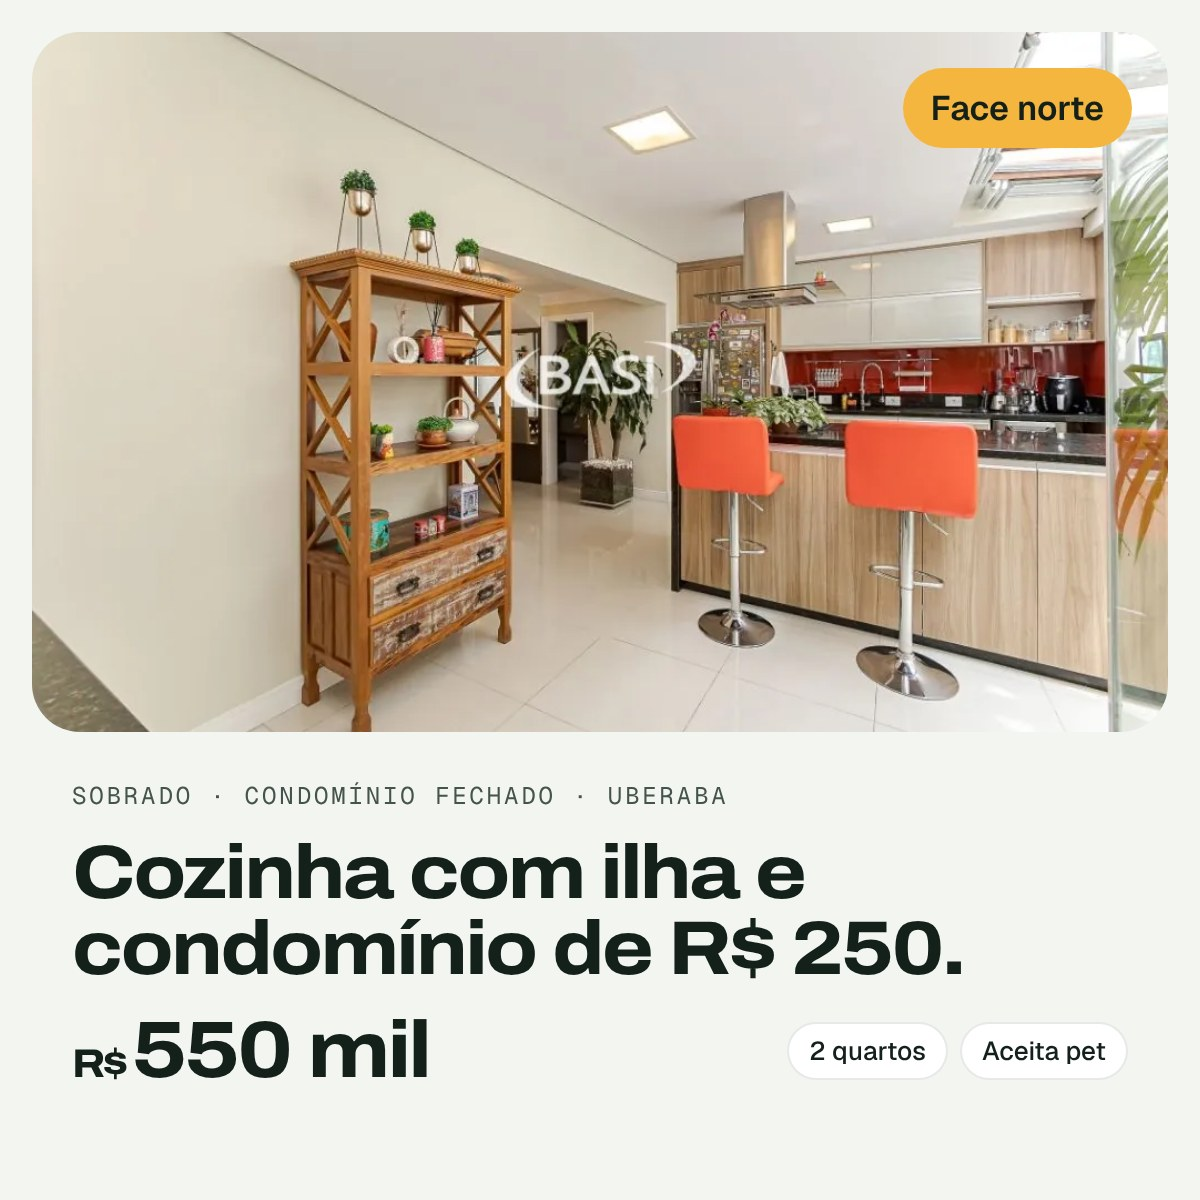
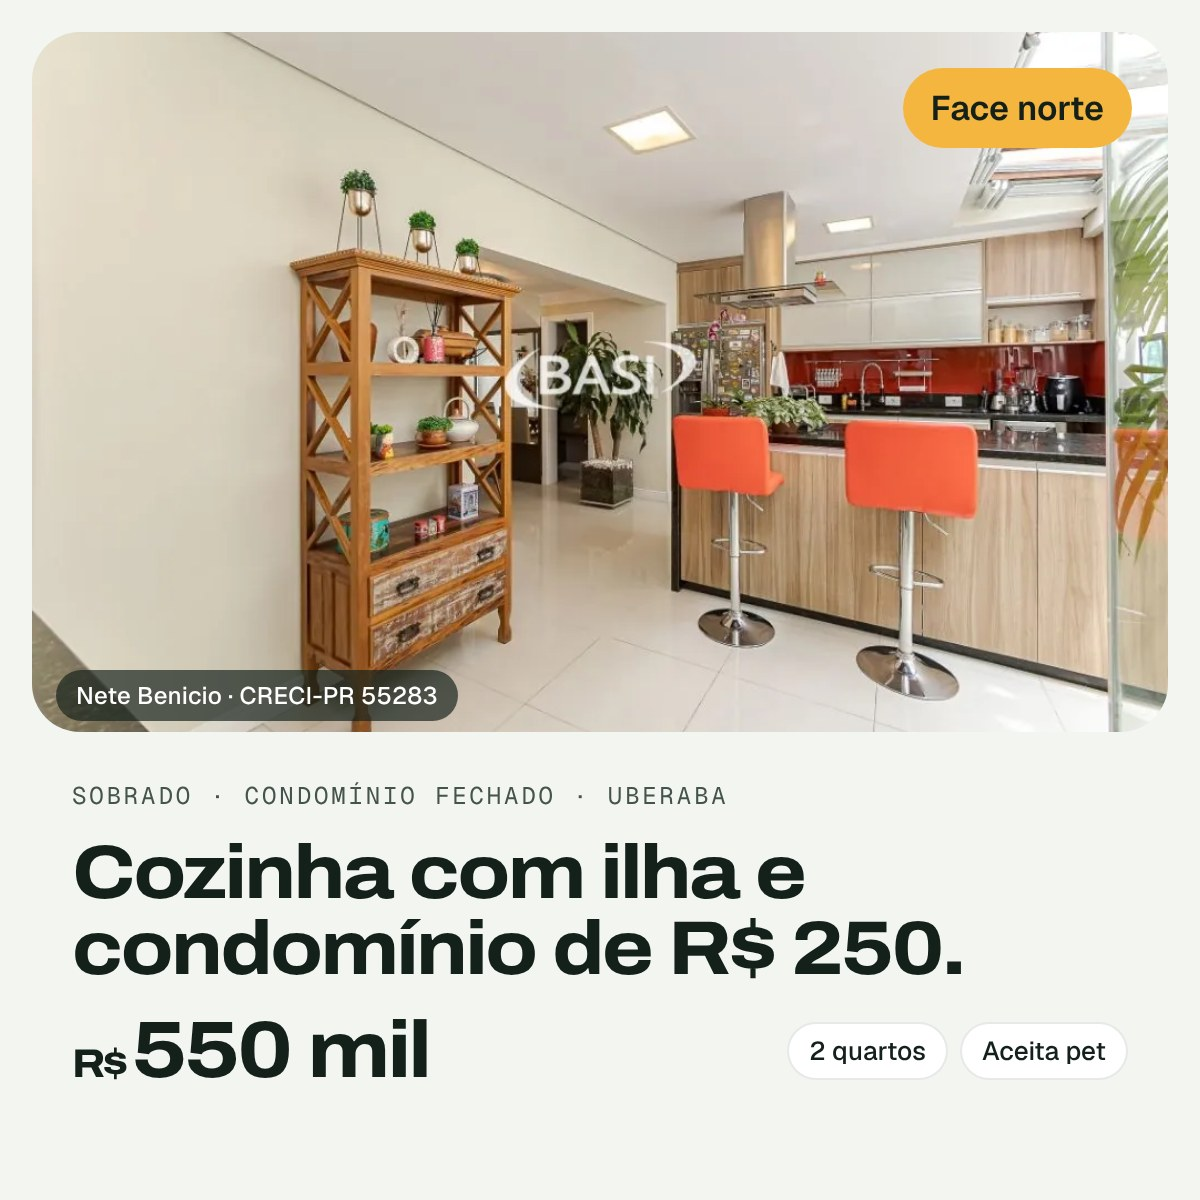
Adiciona o CRECI-PR 55283 da corretora Nete Benicio
Rodapé da página, textos do Meta, frase de destaque do Google e um selo
discreto nos quatro criativos e na imagem de compartilhamento.

Claude-Session: https://claude.ai/code/session_01DcgE9XaBs98acypsvUgWfF

Changed region(s): [[0.0308, 0.555, 0.4008, 0.6167]]

diff --git a/sobrado-uberaba/index.html b/sobrado-uberaba/index.html
@@ -891,7 +891,7 @@ fieldset.f-campo{border:0;margin:0;padding:0;min-width:0}
 window.LP_CONFIG = {
   whatsapp: '5541987357898', // DDI + DDD + número, só dígitos: (41) 98735-7898
   corretor: 'Nete Benicio',  // Nome do corretor ou da imobiliária responsável
-  creci: '',                 // Número do CRECI (obrigatório em anúncio de imóvel)
+  creci: 'CRECI-PR 55283',   // CRECI completo, como deve aparecer (obrigatório em anúncio de imóvel)
   metaPixelId: '',           // Pixel da Meta. Ex.: '123456789012345'
   ga4Id: '',                 // Google Analytics 4. Ex.: 'G-XXXXXXX'
   googleAdsId: '',           // Google Ads. Ex.: 'AW-123456789'
@@ -1047,7 +1047,7 @@ window.LP_CONFIG = {
   /* ---------- CRECI no rodapé ---------- */
   var creci = $('#rodape-creci');
   if(C.corretor || C.creci){
-    creci.textContent = 'Corretora responsável: ' + (C.corretor || '') + (C.creci ? ' · CRECI ' + C.creci : '');
+    creci.textContent = 'Corretora responsável: ' + (C.corretor || '') + (C.creci ? ' · ' + C.creci : '');
   } else {
     creci.textContent = 'Corretora responsável: preencha corretor e CRECI em LP_CONFIG.';
   }

diff --git a/sobrado-uberaba/ANUNCIOS.md b/sobrado-uberaba/ANUNCIOS.md
@@ -8,7 +8,7 @@ Fonte de todos os dados: anúncio público da ref. 4631 (R$ 550.000, antes R$ 57
 
 ## 1. Antes de ligar qualquer campanha
 
-1. **Preencha o bloco `LP_CONFIG`** no fim do `index.html`. Já preenchidos: `whatsapp` ((41) 98735-7898) e `corretor` (Nete Benicio). Falta o `creci` e os IDs dos pixels.
+1. **Preencha o bloco `LP_CONFIG`** no fim do `index.html`. Já preenchidos: `whatsapp` ((41) 98735-7898), `corretor` (Nete Benicio) e `creci` (CRECI-PR 55283). Faltam só os IDs dos pixels.
    - `whatsapp`: DDI + DDD + número, só dígitos (ex.: `5541999998888`). Sem isso, os botões só rolam até o formulário e o lead não chega a ninguém.
    - `corretor` e `creci`: aparecem no rodapé. O CRECI é obrigatório em anúncio de imóvel (regra do COFECI), na página e no texto do anúncio.
    - `metaPixelId`, `ga4Id`, `googleAdsId`, `googleAdsLeadLabel`, `googleAdsContatoLabel`: os pixels só carregam se o ID estiver preenchido.
@@ -62,7 +62,7 @@ A mensagem do WhatsApp termina com `[ref. 4631 · meta/campanha]` quando o cliqu
 >
 > Semi-mobiliado e pronto para a sua mudança no Uberaba. Veja as 32 fotos reais e simule a parcela.
 >
-> Corretora responsável: Nete Benicio · CRECI [NÚMERO]
+> Corretora responsável: Nete Benicio · CRECI-PR 55283
 
 **Título**: Sobrado no Uberaba por R$ 550 mil
 **Descrição**: Condomínio fechado · R$ 250/mês
@@ -76,7 +76,7 @@ A mensagem do WhatsApp termina com `[ref. 4631 · meta/campanha]` quando o cliqu
 >
 > R$ 550 mil, aceita financiamento. Agende sua visita pelo WhatsApp.
 >
-> Corretora responsável: Nete Benicio · CRECI [NÚMERO]
+> Corretora responsável: Nete Benicio · CRECI-PR 55283
 
 **Título**: Troque o elevador pela sua escada
 **Descrição**: Sobrado 2 quartos · R$ 550 mil
@@ -90,7 +90,7 @@ A mensagem do WhatsApp termina com `[ref. 4631 · meta/campanha]` quando o cliqu
 >
 > R$ 550 mil. Veja as fotos e agende sua visita.
 >
-> Corretora responsável: Nete Benicio · CRECI [NÚMERO]
+> Corretora responsável: Nete Benicio · CRECI-PR 55283
 
 **Título**: Sobrado face norte no Uberaba
 **Descrição**: Semi-mobiliado · aceita pet
@@ -163,7 +163,7 @@ Fixe o título 1 na posição 1 para que todo anúncio comece dizendo o que é e
   - Simular Parcelas → `/sobrado-uberaba/#parcelas`
   - Agendar Visita → `/sobrado-uberaba/#visita`
   - Localização → `/sobrado-uberaba/#local`
-- **Frases de destaque**: Condomínio R$ 250/mês · Face Norte · Aceita Pet · Semi-Mobiliado · Aceita Financiamento · Condomínio Fechado
+- **Frases de destaque**: Condomínio R$ 250/mês · Face Norte · Aceita Pet · Semi-Mobiliado · Aceita Financiamento · Condomínio Fechado · Corretora CRECI-PR 55283
 - **Snippet estruturado** (cabeçalho "Comodidades"): Cozinha com ilha · Armários planejados · Aquecimento a gás · Portão eletrônico
 - **Imagens**: `quadrado-1200x1200.jpg` e `paisagem-1200x630.jpg`
 
@@ -178,6 +178,8 @@ Fixe o título 1 na posição 1 para que todo anúncio comece dizendo o que é e
 | `criativos/quadrado-1200x1200.jpg` | Google (imagens de Pesquisa e Display) e feed quadrado |
 | `criativos/paisagem-1200x630.jpg` | Google Display e coluna da direita do Facebook |
 | `og.jpg` | Prévia do link no WhatsApp e nas redes |
+
+Todos os criativos trazem o selo "Nete Benicio · CRECI-PR 55283" no canto da foto.
 
 ## 5. Rotina das duas primeiras semanas
 
